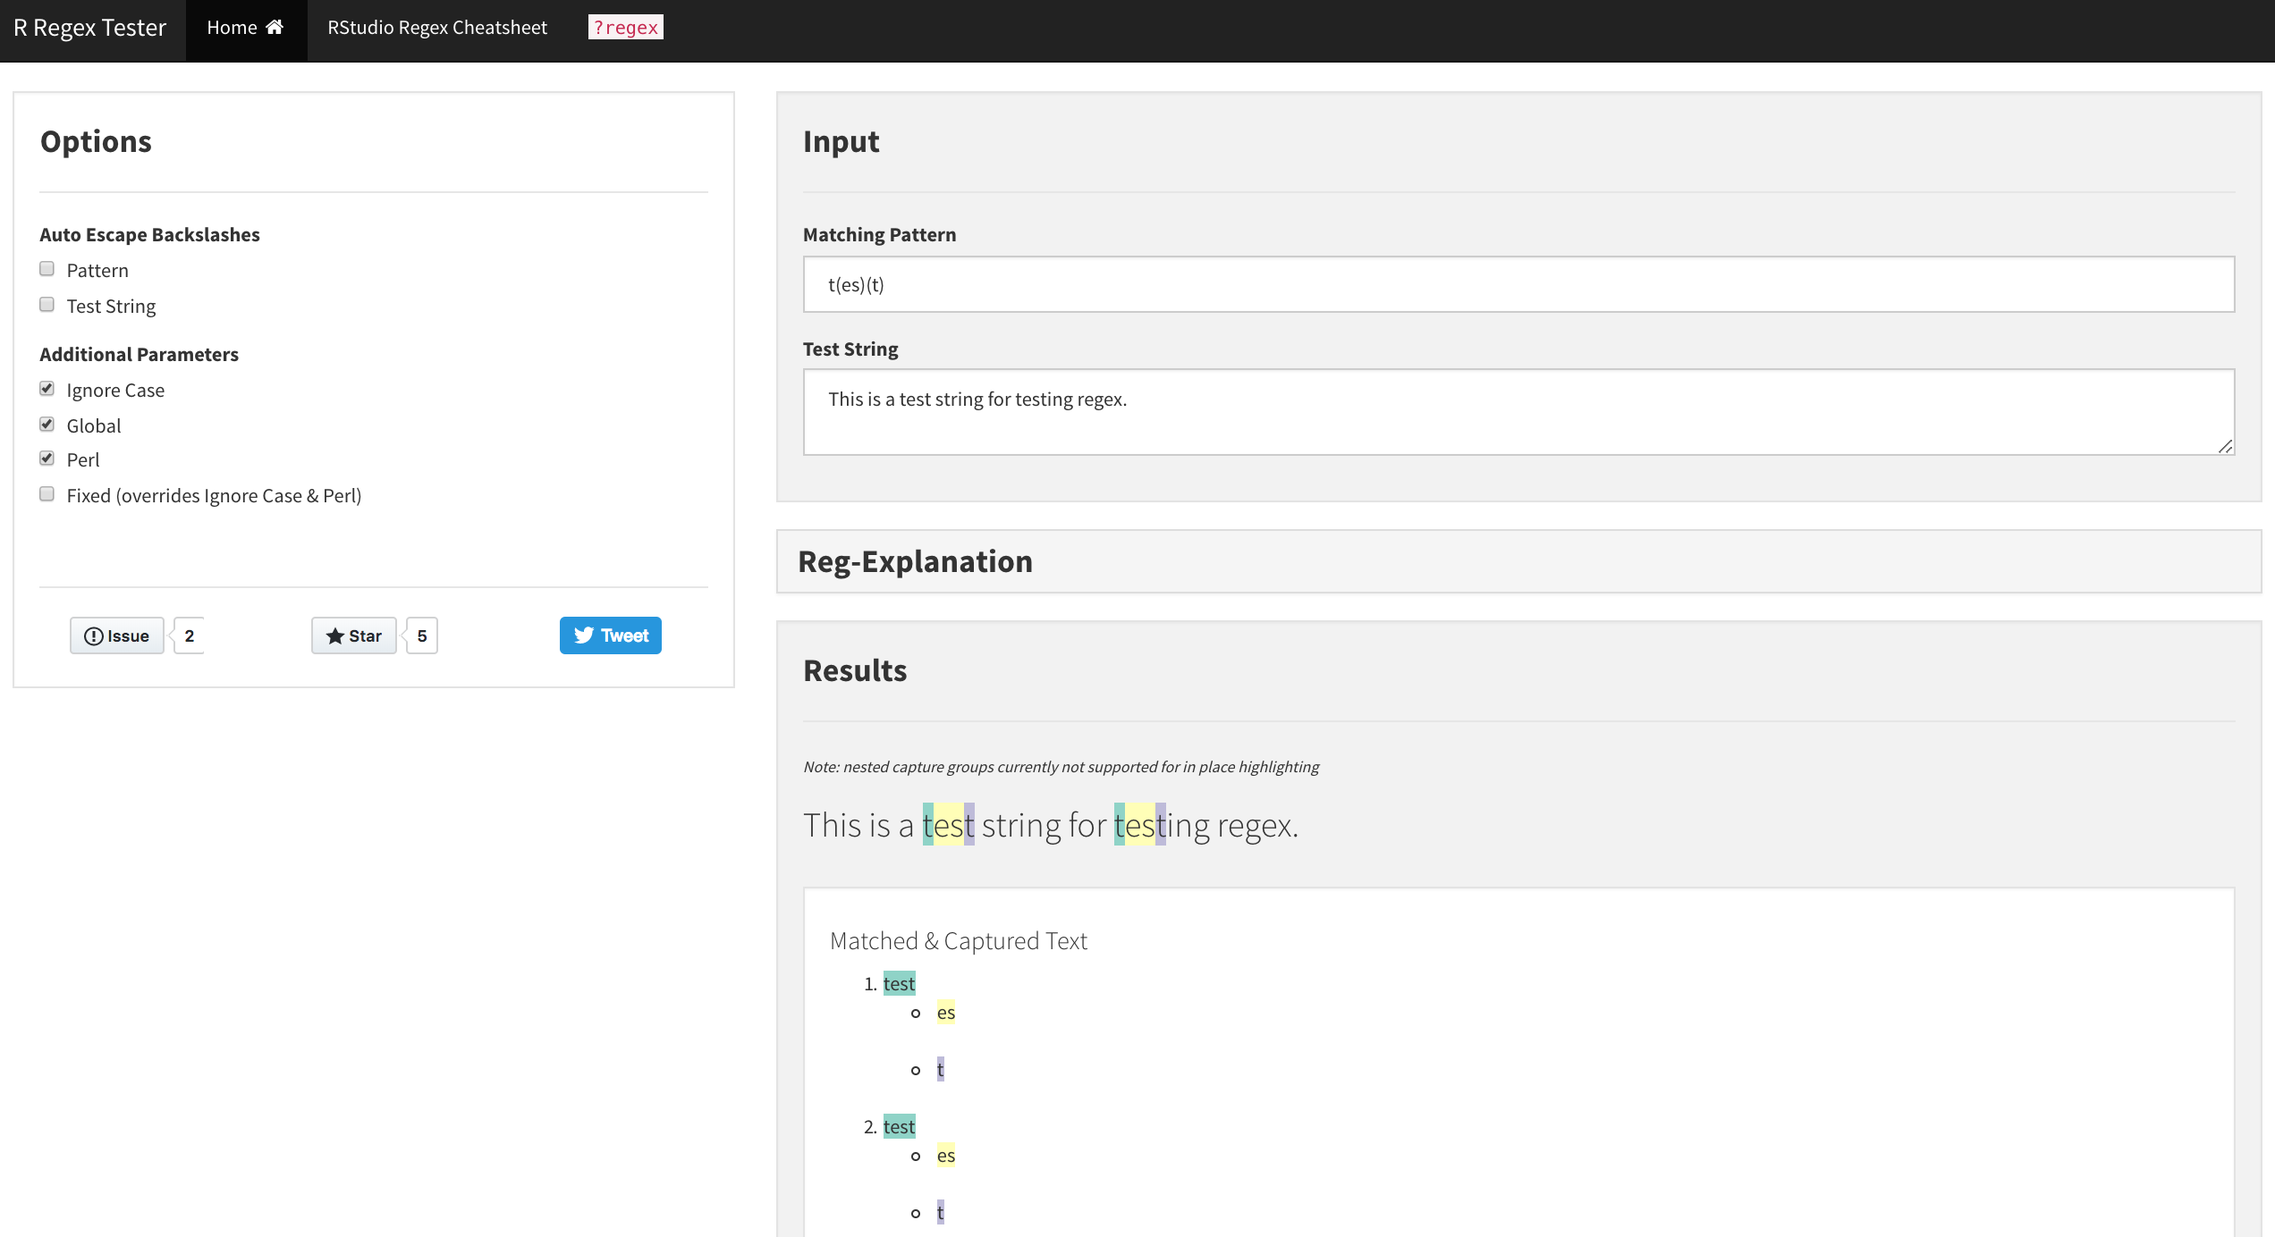
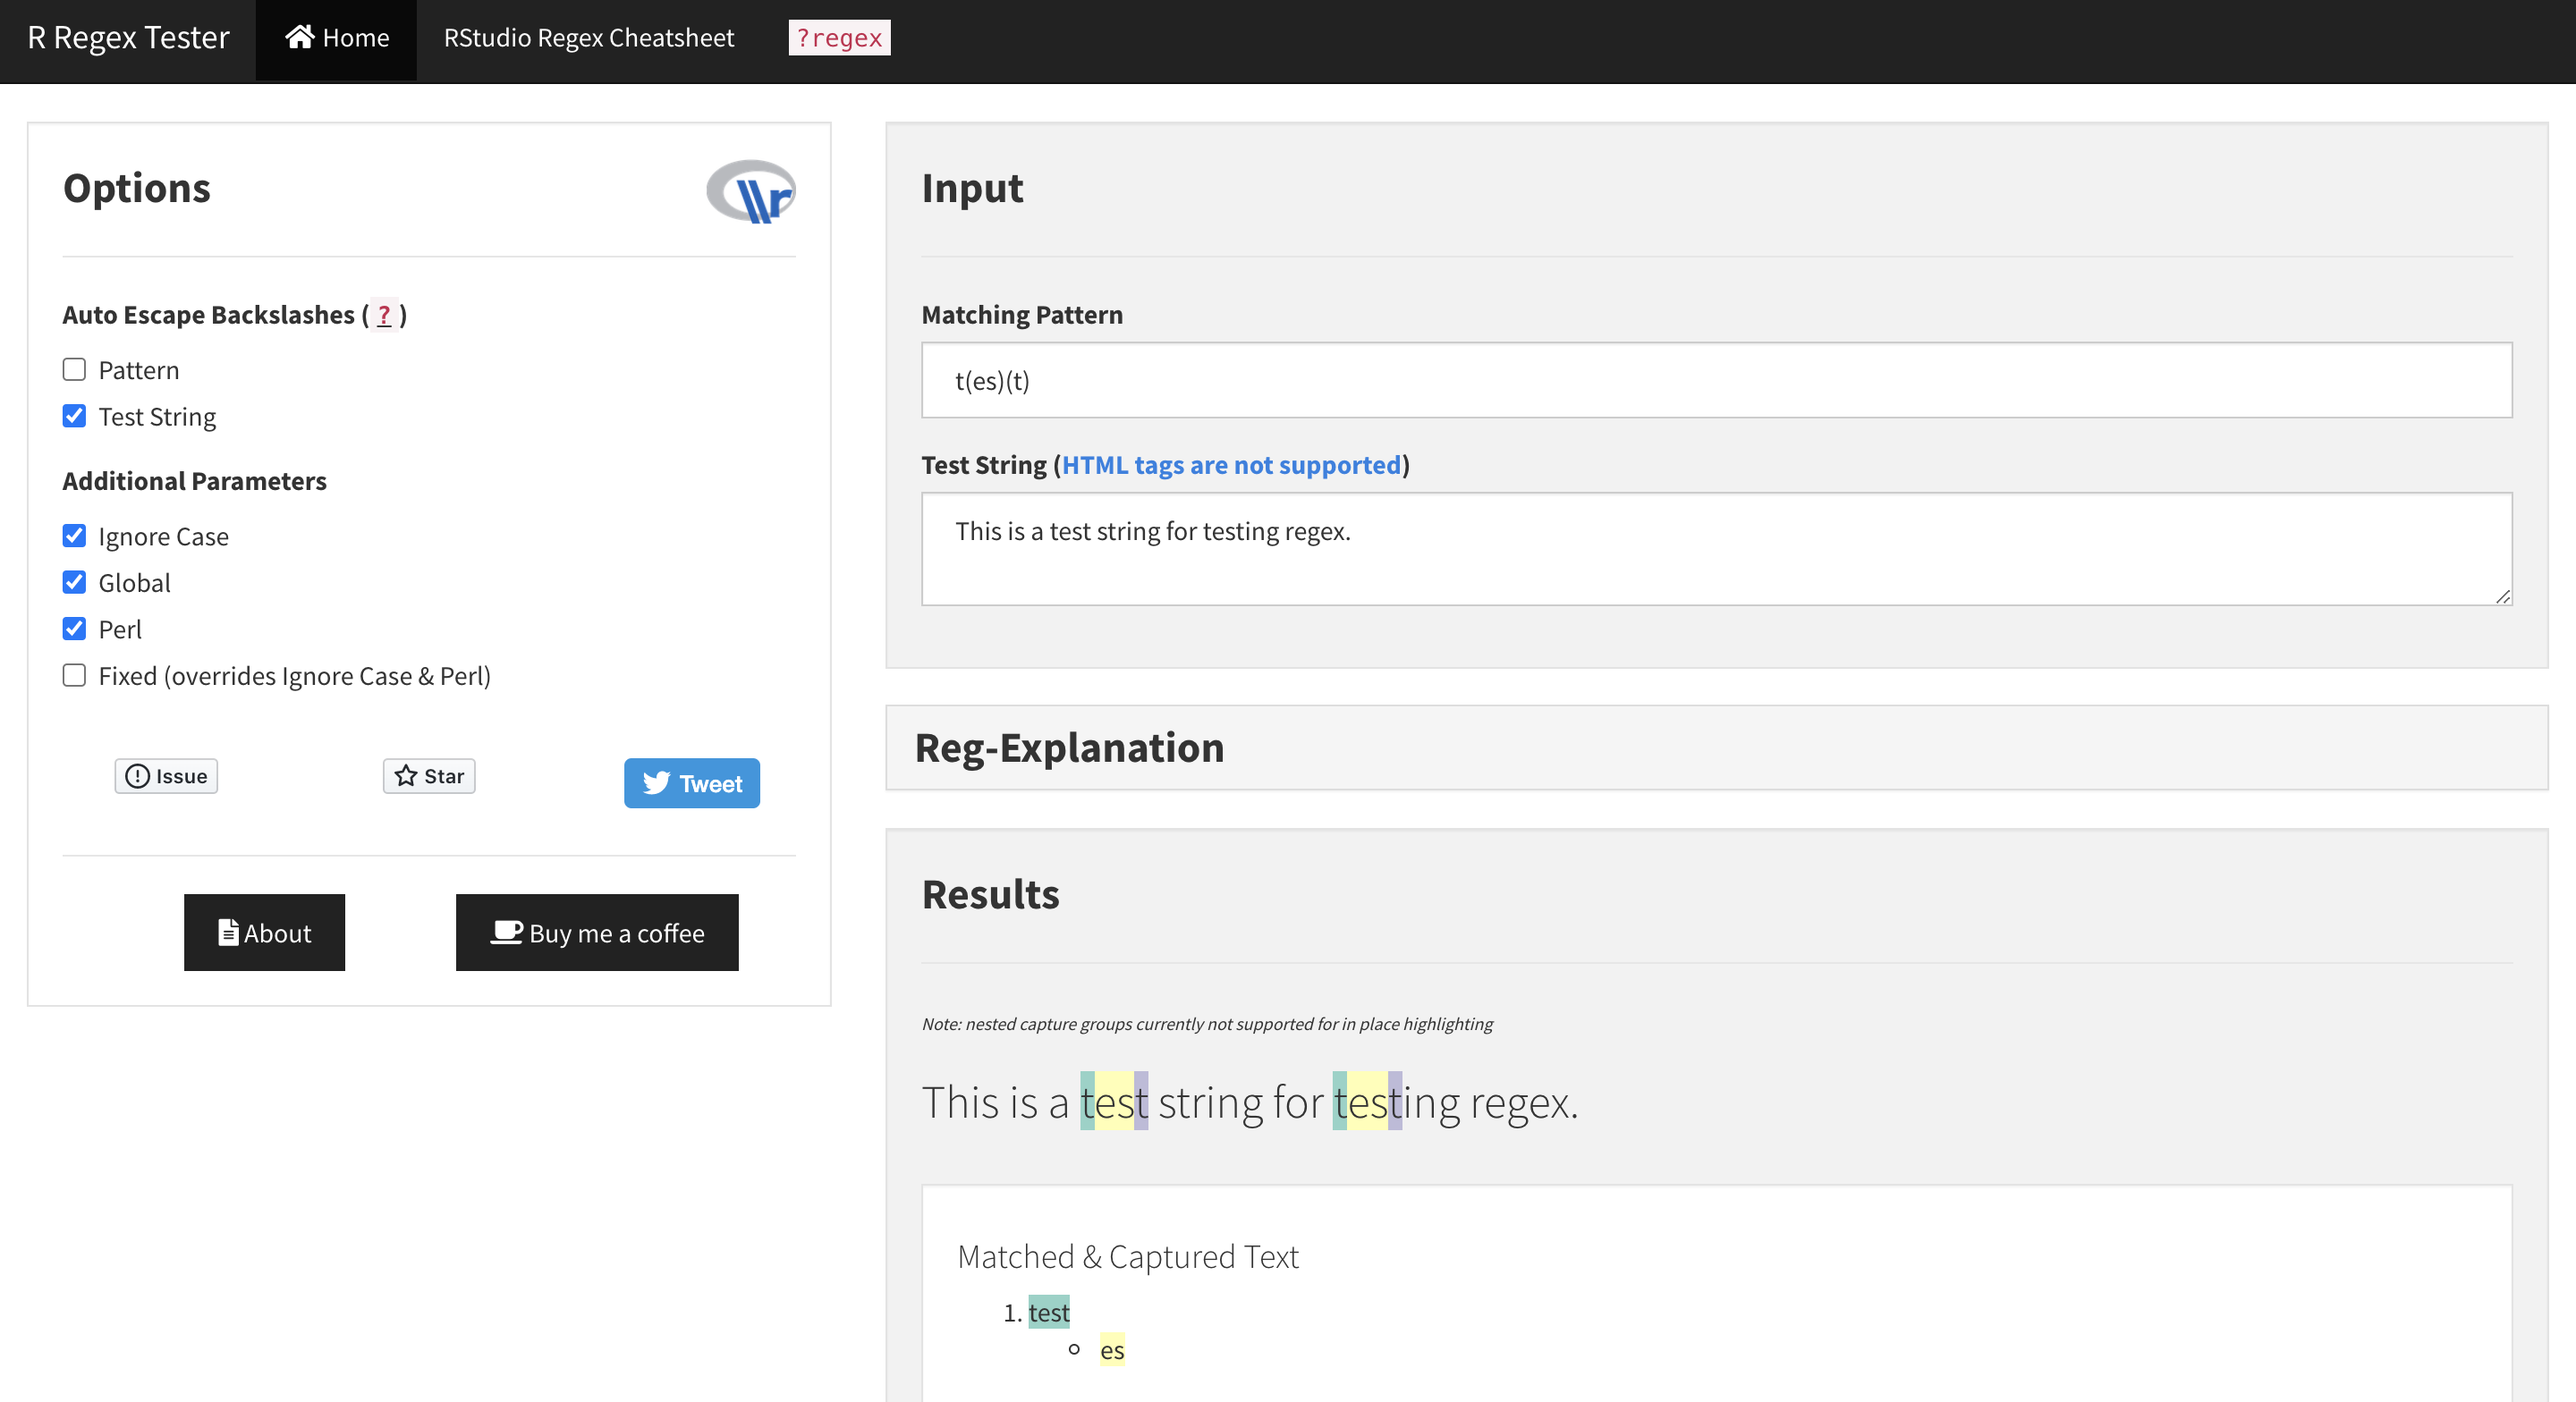
update app screenshot in readme

diff --git a/README.md b/README.md
@@ -3,10 +3,12 @@
 [![Build Status](https://travis-ci.org/AdamSpannbauer/r_regex_tester_app.svg?branch=master)](https://travis-ci.org/AdamSpannbauer/r_regex_tester_app) 
 [![Codecov test coverage](https://codecov.io/gh/AdamSpannbauer/r_regex_tester_app/branch/master/graph/badge.svg)](https://codecov.io/gh/AdamSpannbauer/r_regex_tester_app?branch=master) [![CRAN\_Status\_Badge](http://www.r-pkg.org/badges/version/regexTestR)](https://CRAN.R-project.org/package=regexTestR) [![Last Commit](https://img.shields.io/github/last-commit/AdamSpannbauer/r_regex_tester_app.svg)](https://github.com/AdamSpannbauer/r_regex_tester_app/commits/master)
 
-
 <p align="center">
-   <img src="https://adamspannbauer.github.io/assets/2018/01/regex_full_screenshot.png", width="80%">
+  <a href="https://spannbaueradam.shinyapps.io/r_regex_tester/" target=”_blank”>
+   <img src="readme/r_regex_app_screenshot.png", width="80%">
+  </a>
 </p>
+
 
 
 ## Usage
@@ -16,13 +18,13 @@
 * Visit the application live on [shinyapps.io](https://spannbaueradam.shinyapps.io/r_regex_tester/).
 
 ### Local
- 
+
 * Install from GitHub with devtools
 
 ```r
 devtools::install_github("AdamSpannbauer/r_regex_tester_app")
 ```
-  
+
 * Run app
   
 ```r
